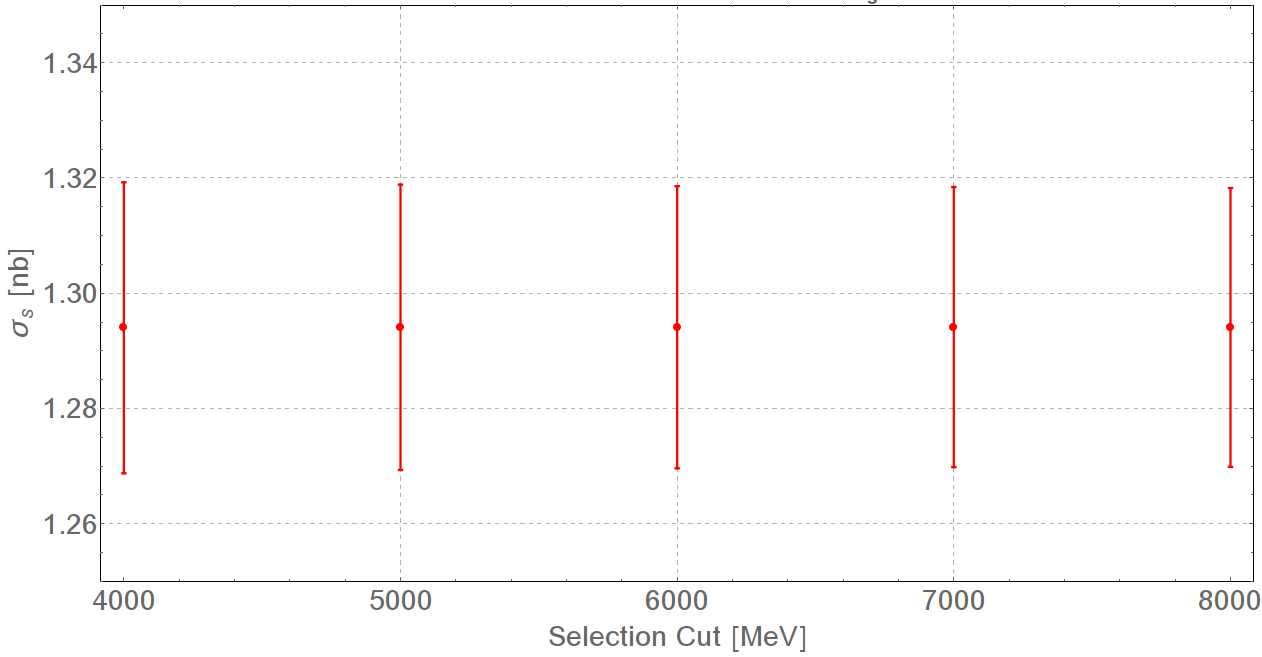
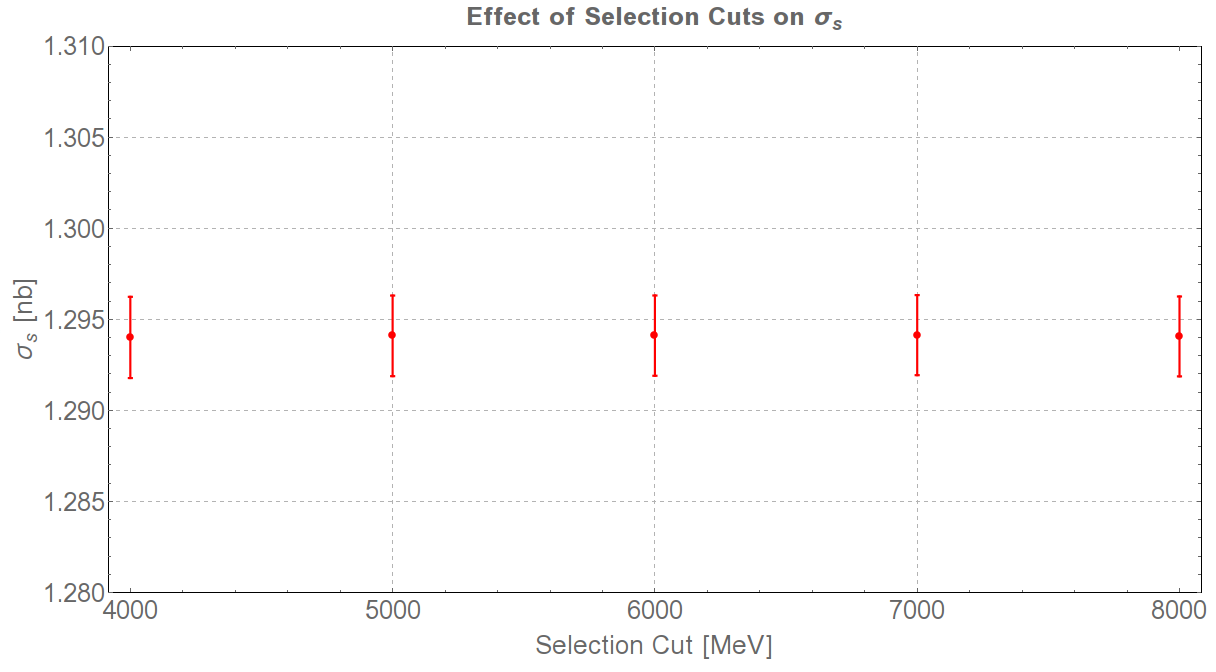
Added the final results

diff --git a/Wenu.md b/Wenu.md
@@ -28,7 +28,7 @@ use_math: true
 5. [Background Analysis](#5-background-analysis)<br>
 	5.1 [Estimation of Background Shape](#51-estimation-of-background-shape)<br>
 	5.2 [ABCD Method](#52-abcd-method)
-6. [Cross Section Calculation](#6-cross-section-calculation)
+6. [Cross Section](#6-cross-sectionn)
 7. [Summary of Results](#7-summary-of-results)
 
 ---
@@ -105,7 +105,24 @@ use_math: true
 
 ### 5.2 ABCD Method
 
-## 6. Cross Section calculation
+## 6. Cross Section
+
+
+## Uncertainties
+
+
+#### Statistical Uncertainty
+
+
+#### Systematic Uncertainty
+
+#### Luminosity Uncertainty
+
+## Final Value
+Finally, we quote the final value for the cross section obtained in the $W\rightarrow e\mu$ process to be
+\begin{equation}
+\sigma_{We\nu} = 10.96\pm 0.03 \mathrm{(stat)}\pm 0.20 \mathrm{(syst)}\pm 0.02 \mathrm{(lumi)}
+\end{equation}
 
 ## 7. Summary of Results
 ---

diff --git a/Zee.md b/Zee.md
@@ -4,5 +4,41 @@ title: Zee
 use_math: true
 ---
 
-## Here is the Zee page
+## $Z\rightarrow\mu^+\mu^-$
+---
+## Contents
+
+1. [Theory](#1-theory)
+2. [Parameter Analysis](#2-parameter-analysis)
+3. [Cone Cuts](#3-cone-cuts)
+4. [Mass Distribution](#4-mass-distribution)
+5. [Cross Section](#5-cross-section)
+	* [Uncertainties](#uncertainties)
+6. [Mass Resonance Fit](#6-mass-resonance-fit)
+
+---
+
+
+
+
+
+
+## 6. Cross Section
+
+
+## Uncertainties
+
+
+#### Statistical Uncertainty
+
+
+#### Systematic Uncertainty
+
+#### Luminosity Uncertainty
+
+## Final Value
+Finally, we quote the final value for the cross section obtained in the $Z\rightarrow\mu\mu$ process to be
+\begin{equation}
+\sigma_{Z\mu\mu} = 1.20\pm 0.01 \mathrm{(stat)}\pm 0.07 \mathrm{(syst)}\pm 0.02 \mathrm{(lumi)}
+\end{equation}
 

diff --git a/Wmunu.md b/Wmunu.md
@@ -106,8 +106,24 @@ use_math: true
 
 ---
 
-## 6. Cross Section calculation
+## 6. Cross Section
 
+
+## Uncertainties
+
+
+#### Statistical Uncertainty
+
+
+#### Systematic Uncertainty
+
+#### Luminosity Uncertainty
+
+## Final Value
+Finally, we quote the final value for the cross section obtained in the $W\rightarrow\mu\nu$ process to be
+\begin{equation}
+\sigma_{W\mu\nu} = 12.35\pm 0.03 \mathrm{(stat)}\pm 0.11 \mathrm{(syst)}\pm 0.02 \mathrm{(lumi)}
+\end{equation}
 ---
 
 ## 7. Summary of Results

diff --git a/Zmumu.md b/Zmumu.md
@@ -83,7 +83,7 @@ Finally, the uncertainty on the luminosity was taken to be **0.02 nb**.
 ## Final Value
 Finally, we quote the final value for the cross section obtained in the $Z\rightarrow\mu\mu$ process to be
 \begin{equation}
-\sigma_{Z\mu\mu} = 1.2941\pm 0.02 \mathrm{(stat)}\pm 0.0001 \mathrm{(syst)}\pm 0.02 \mathrm{(lumi)}
+\sigma_{Z\mu\mu} = 1.294\pm 0.002 \mathrm{(stat)}\pm 0.0001 \mathrm{(syst)}\pm 0.02 \mathrm{(lumi)}
 \end{equation}
 
 ## 6. Mass Resonance Fit
